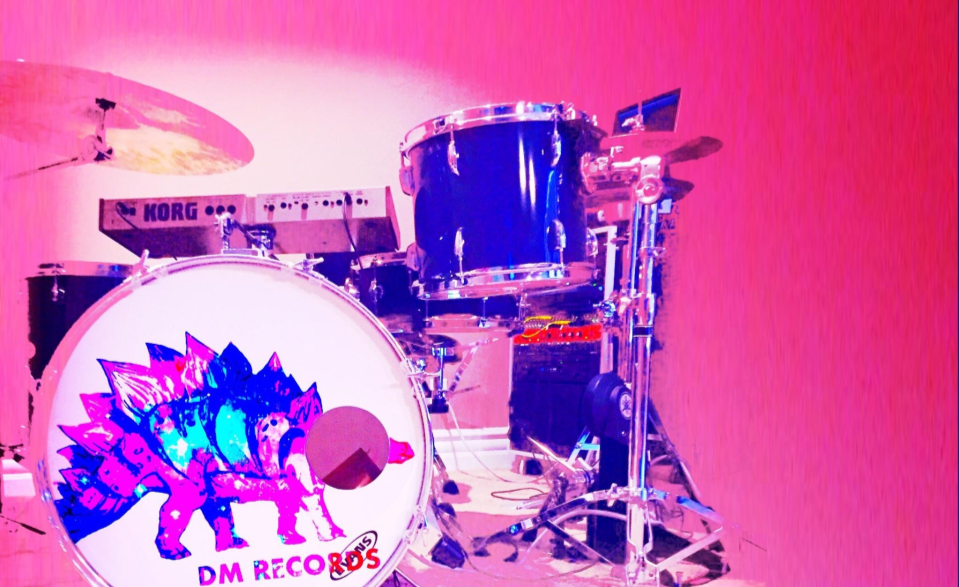
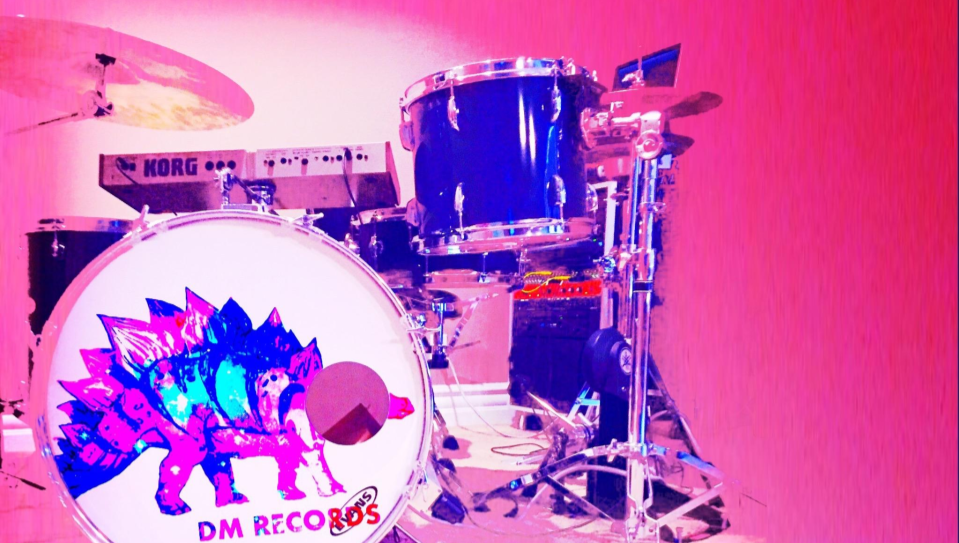
Toggle and hover nav

diff --git a/js/main.js b/js/main.js
@@ -1,18 +1,74 @@
 window.addEventListener("resize", setMobile);
 
 var hugePic = document.getElementById("hugePic");
-hugePic.src = "images/drums crop.png";
+hugePic.src = "images/logoPNG.png";
+
+var nav1 = document.getElementById("nav1");
+var nav2 = document.getElementById("nav2");
+var nav3 = document.getElementById("nav3");
+var nav4 = document.getElementById("nav4");
+
+var ntxt1 = document.getElementById("ntxt1");
+var ntxt2 = document.getElementById("ntxt2");
+var ntxt3 = document.getElementById("ntxt3");
+var ntxt4 = document.getElementById("ntxt4");
+
+var hmenu = document.getElementById("hmenu");
+var hline1 = document.getElementById("hline1");
+var hline2 = document.getElementById("hline2");
+var hline3 = document.getElementById("hline3");
+
+nav4.onmouseover = highMenu;
+nav4.onmouseout = regMenu;
+nav4.onclick = showMenu;
+
+ntxt1.innerHTML = "ABOUT";
+ntxt2.innerHTML = "CALENDAR";
+ntxt3.innerHTML = "CONTACT";
+
+
+function highMenu() {
+  hline1.style.backgroundColor = "#BD52DB";
+  hline2.style.backgroundColor = "#BD52DB";
+  hline3.style.backgroundColor = "#BD52DB";
+}
+
+function regMenu() {
+  hline1.style.backgroundColor = "white";
+  hline2.style.backgroundColor = "white";
+  hline3.style.backgroundColor = "white";
+}
+
+function showMenu() {
+  if (ntxt1.style.display == "none") {
+    $(".navtext").css('display', 'block');
+  } else {
+    $(".navtext").css('display', 'none');
+  }
+}
+
 function setMobile() {
+  //hide menu
+  $(".navtext").css('display', 'none');
+
+
   var w = window.innerWidth
   || document.documentElement.clientWidth
   || document.body.clientWidth;
 
   if (w > 800) {
     // set desktop
-    $(".headerbox").css('backgroundColor', 'black');
+    $(".navbox").css('width', '10%');
+    nav1.style.left = "50%";
+    nav2.style.left = "62.5%";
+    nav3.style.left = "75%";
+    nav4.style.left = "90%";
   } else {
     // set mobile
-    $(".headerbox").css('backgroundColor', 'blue');
-
+    $(".navbox").css('width', '25%');
+    nav1.style.left = "0.5%";
+    nav2.style.left = "25.5%";
+    nav3.style.left = "50.5%";
+    nav4.style.left = "75.5%";
   }
 }

diff --git a/css/style.css b/css/style.css
@@ -8,8 +8,9 @@ html {
 }
 
 body {
-  background-color: white;
+  background-color: black;
   overflow: hidden;
+  font-family: Arial, Helvetica, sans-serif;
 }
 
 .headerbox {
@@ -20,6 +21,75 @@ body {
 
 .hugeimage {
   position: absolute;
-  width: 100%;
+  width: 85vh;
+  top: 30vh;
+  left: -30vh;
   opacity: 0.7;
+}
+
+.navbar {
+  position: absolute;
+  width: 95%;
+  height: 7.5vh;
+  display: inline-block;
+}
+
+.navbox {
+  position: absolute;
+  height: 100%;
+  text-align: center;
+  font-size: 1.25em;
+  color: white;
+  opacity: 0.6;
+  cursor: pointer;
+}
+
+.navbox:hover {
+  opacity: 1;
+}
+
+.navtext {
+  position: absolute;
+  width: 100%;
+  top: 16%;
+}
+
+.hamburger {
+  position: absolute;
+  width: 25%;
+  height: 100%;
+  left: 30%;
+  cursor: pointer;
+}
+
+.hline {
+  position: absolute;
+  width: 100%;
+  height: 5%;
+  background-color: white;
+}
+
+
+#hline1 {
+  top: 15%
+}
+
+#hline2 {
+  top: 35%;
+}
+
+#hline3 {
+  top: 55%;
+}
+
+#ntxt1:hover {
+  color: #8162F4;
+}
+
+#ntxt2:hover {
+  color: #FF5AFE;
+}
+
+#ntxt3:hover {
+  color: #5EFC8D;
 }

diff --git a/index.html b/index.html
@@ -5,15 +5,21 @@
   <script src="js/jquery-3.4.1.js"></script>
   <link rel="stylesheet" href="css/style.css">
 </head>
-<body>
+<body onload="setMobile()">
 
 <div class="headerbox" id="hbox">
   <img class="hugeimage" id="hugePic"></img>
   <div class="navbar" id="navBar">
     <div class="navbox" id="nav1"><span class="navtext" id="ntxt1"></span></div>
-    <div class="navbox" id="nav1"><span class="navtext" id="ntxt1"></span></div>
-    <div class="navbox" id="nav1"><span class="navtext" id="ntxt1"></span></div>
-    <div class="navbox" id="nav1"><span class="navtext" id="ntxt1"></span></div>
+    <div class="navbox" id="nav2"><span class="navtext" id="ntxt2"></span></div>
+    <div class="navbox" id="nav3"><span class="navtext" id="ntxt3"></span></div>
+    <div class="navbox" id="nav4"><span class="navtext" id="ntxt4"></span>
+      <div class="hamburger" id="hmenu">
+        <span class="hline" id="hline1"></span>
+        <span class="hline" id="hline2"></span>
+        <span class="hline" id="hline3"></span>
+      </div>
+    </div>
   </div>
 </div>
 
